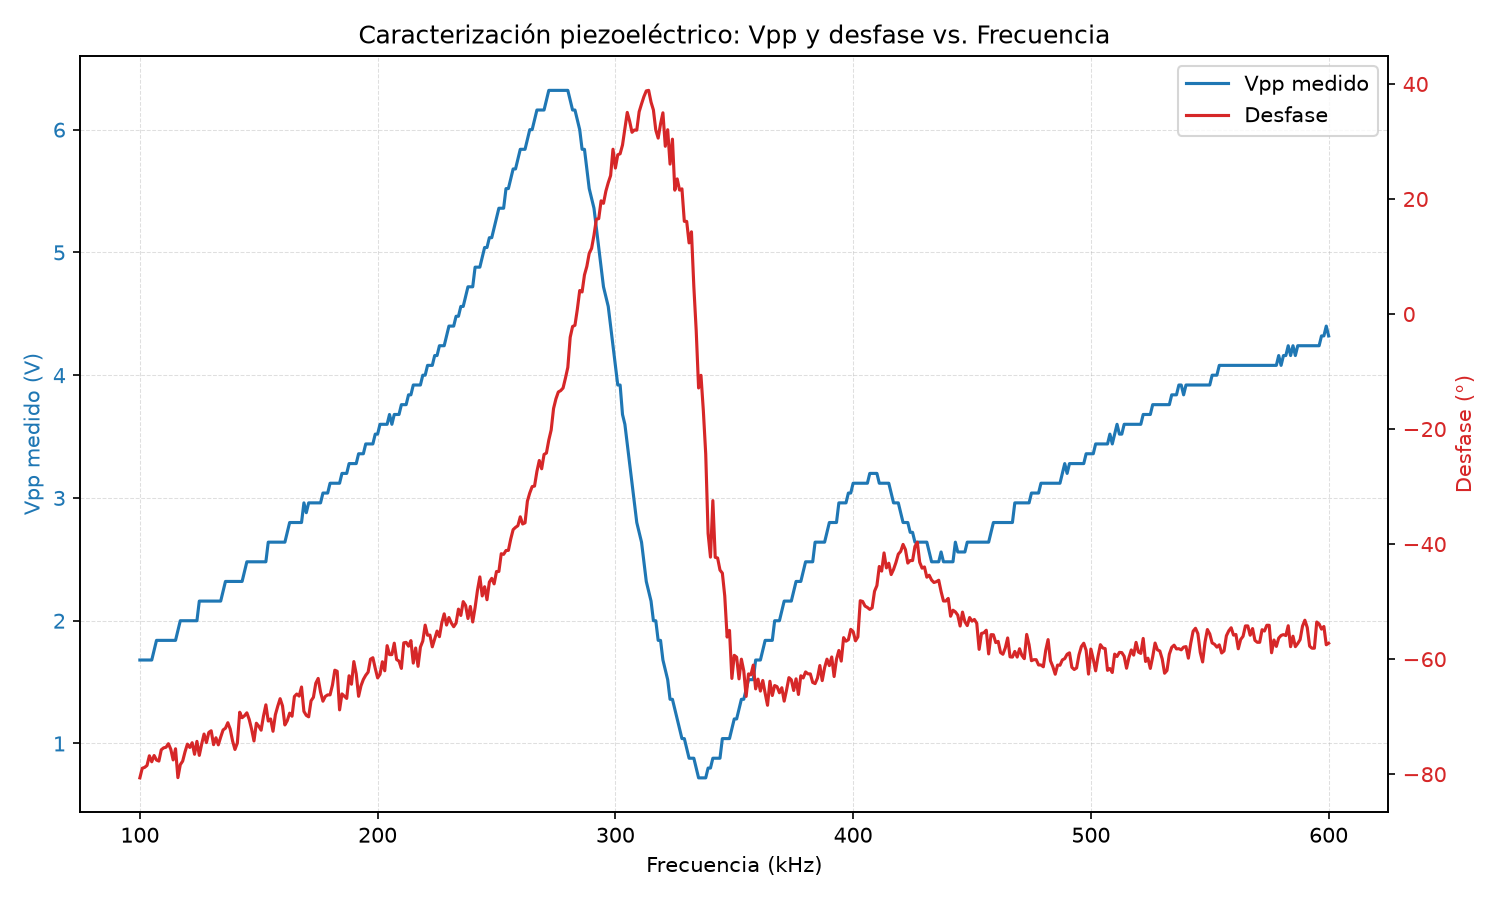
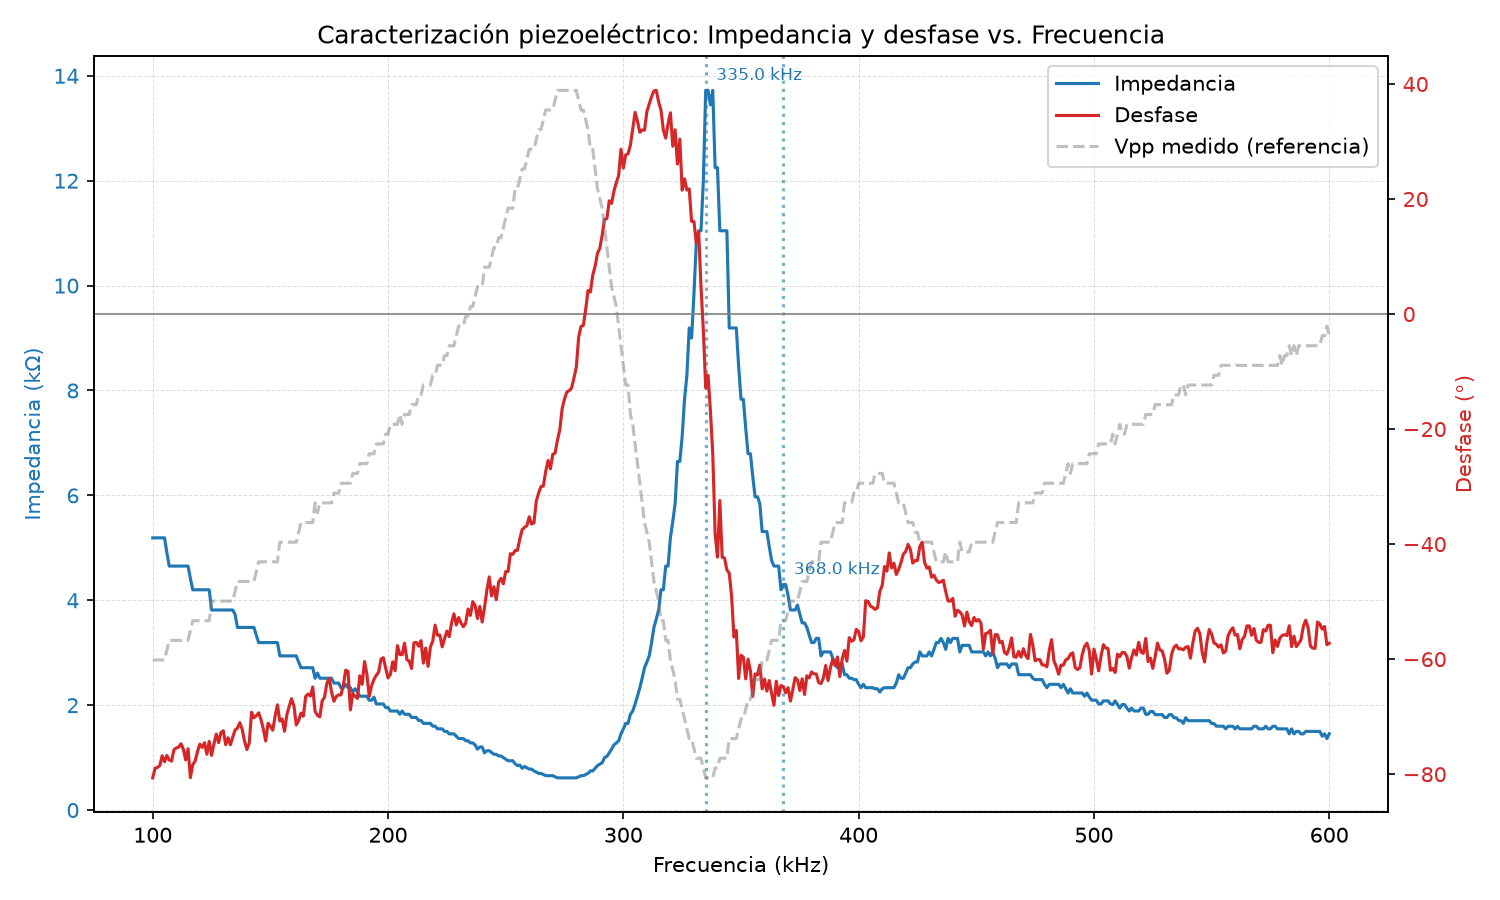
cambios

diff --git a/graficar_caracterizacion.py b/graficar_caracterizacion.py
@@ -48,7 +48,7 @@ def encontrar_picos(valores, frecuencias, min_separacion_khz=10):
     picos_seleccionados = [(frecuencias[indice_principal], valores[indice_principal])]
 
     # Primer valle LOCAL después del pico principal (no el más profundo de toda la curva)
-    valles_despues = [i for i in indices_valles if i > indice_principal + min_separacion_khz]]
+    valles_despues = [i for i in indices_valles if i > indice_principal + min_separacion_khz]
     if valles_despues:
         indice_valle = min(valles_despues)
 